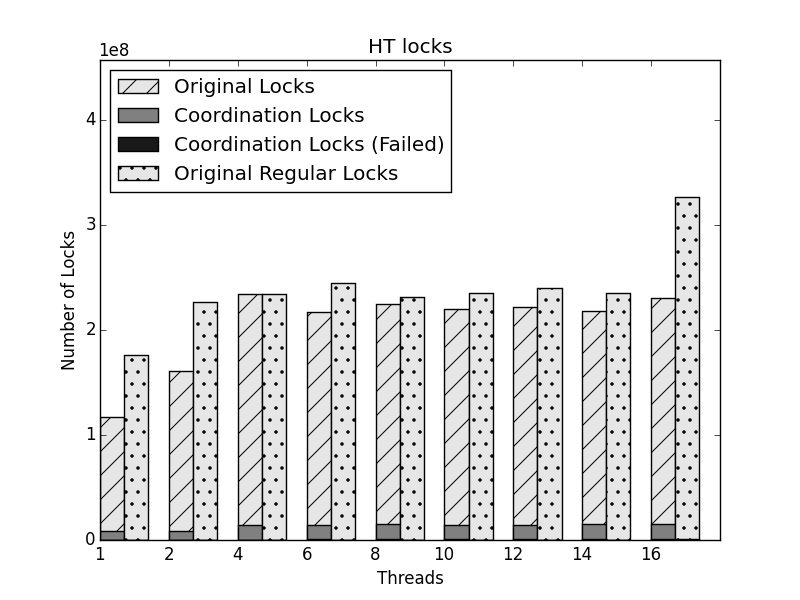
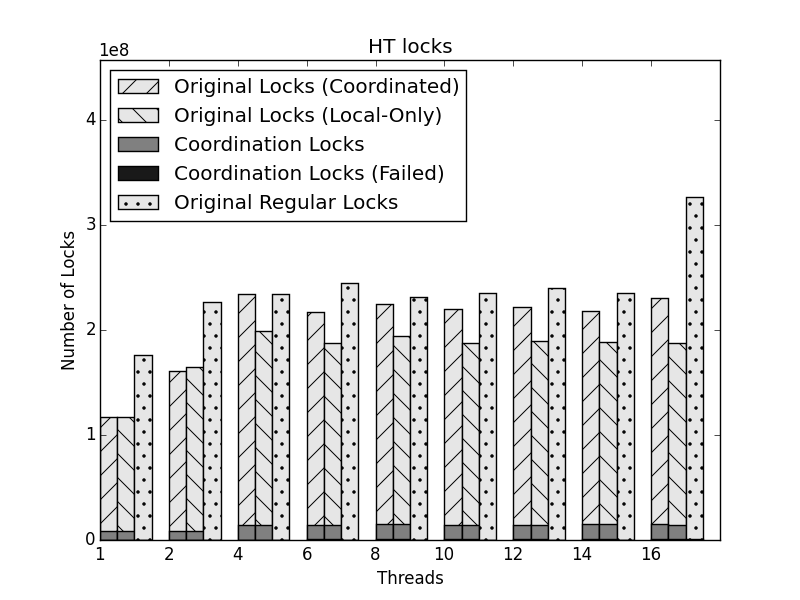
Merge HT locks plots into one.

diff --git a/results/locks/plot_three.py b/results/locks/plot_three.py
@@ -1,0 +1,53 @@
+#!/usr/bin/python
+
+import re
+import sys
+import math
+import matplotlib.pyplot as plt
+import matplotlib as mpl
+import numpy as np
+from matplotlib import rcParams
+from numpy import nanmax
+from lib import read_experiment
+
+if len(sys.argv) != 7:
+   print "not enough arguments"
+   sys.exit(1)
+
+reg_file = sys.argv[1]
+coord_file = sys.argv[2]
+opt_file = sys.argv[3]
+output_file = sys.argv[4]
+title = sys.argv[5]
+opt_name = sys.argv[6]
+
+reg_exp = read_experiment(reg_file)
+coord_exp = read_experiment(coord_file)
+opt_exp = read_experiment(opt_file)
+
+N = reg_exp.num_threads()
+ind = np.arange(N)
+width = 0.25
+cmap = plt.get_cmap('gray')
+
+fig = plt.figure()
+ax = fig.add_subplot(111)
+ax.set_ylabel('Number of Locks')
+ax.set_xlabel('Threads')
+ax.set_title(title)
+
+ptotalc = ax.bar(ind, coord_exp.get_total_locks(), width, color=cmap(0.9), hatch='/')
+pcoordc = ax.bar(ind, coord_exp.get_coord_total_locks(), width, color=cmap(0.5))
+pfailc = ax.bar(ind, coord_exp.get_fail_locks(), width, color=cmap(0.1))
+
+ptotalo = ax.bar(ind + width, opt_exp.get_total_locks(), width, color=cmap(0.9), hatch='\\')
+pcoordo = ax.bar(ind + width, opt_exp.get_coord_total_locks(), width, color=cmap(0.5))
+pfailo = ax.bar(ind + width, opt_exp.get_fail_locks(), width, color=cmap(0.1))
+
+ptotalreg = ax.bar(ind + 2 * width, reg_exp.get_total_locks(), width, color=cmap(0.9), hatch=".")
+pfailreg = ax.bar(ind + 2 * width, reg_exp.get_fail_locks(), width, color=cmap(0.5))
+ax.set_ylim([0, max([max(reg_exp.get_total_locks()), max(coord_exp.get_total_locks())])*1.4])
+ax.set_xticks(ind)
+ax.set_xticklabels(('1', '2', '4', '6', '8', '10', '12', '14', '16'))
+ax.legend((ptotalc, ptotalo, pcoordc, pfailc, ptotalreg), ('Original Locks (Coordinated)', 'Original Locks (' + opt_name + ')', 'Coordination Locks', 'Coordination Locks (Failed)', 'Original Regular Locks'), loc=2)
+plt.savefig(output_file)

diff --git a/locks.tex b/locks.tex
@@ -6,12 +6,6 @@
 
 \begin{topfig}
    \begin{center}
-      \subfloat[]{\includegraphics[width=6.5cm]{results/locks/ht-locks-local-only.png}}
-   \end{center}
-\end{topfig}
-
-\begin{topfig}
-   \begin{center}
       \subfloat[]{\includegraphics[width=6.5cm]{results/locks/minmax-locks.png}}
    \end{center}
 \end{topfig}
